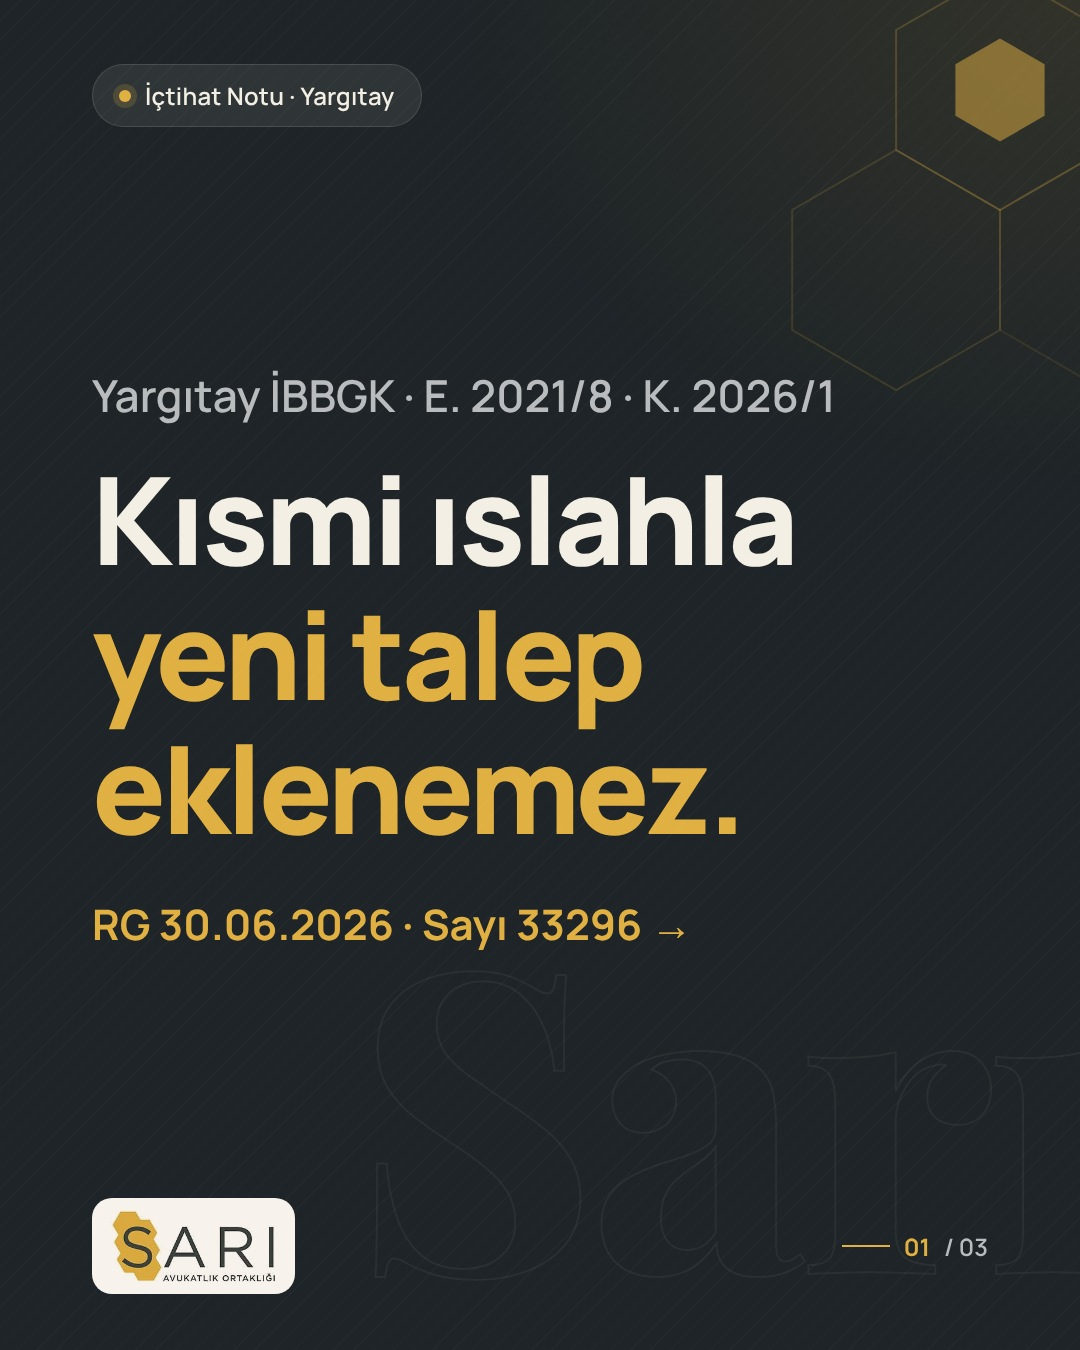
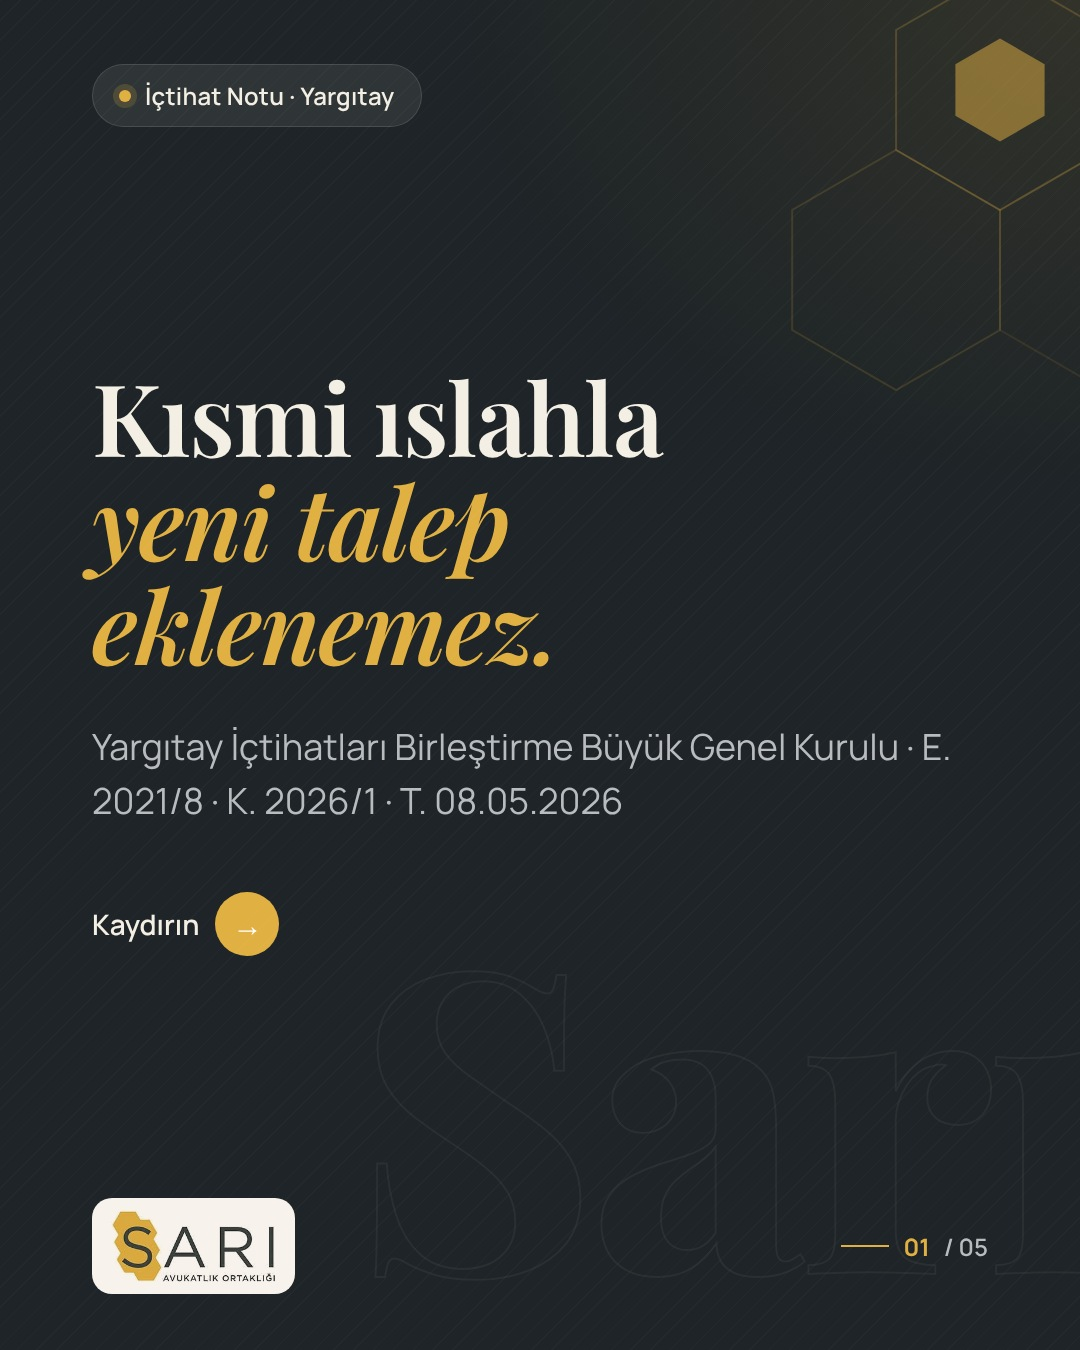
Keep detailed style for İçtihat Notu (professional audience); restore 19 Nov version
Claude-Session: https://claude.ai/code/session_0164oKcT3mMCAzEmKnB2D6t4

diff --git a/saripartners/ONAY.md b/saripartners/ONAY.md
@@ -145,26 +145,30 @@ Bu paylaşım genel bilgilendirme amaçlıdır; hukuki görüş veya tavsiye nit
 **Açıklama metni:**
 
 ```
-İçtihat Notu | Kısmi ıslahla yeni talep eklenemez.
+İçtihat Notu | Kısmi ıslahla, dava dilekçesinde yer almayan yeni bir talep eklenemez.
 
-Yargıtay İçtihatları Birleştirme Büyük Genel Kurulu, E. 2021/8, K. 2026/1, T. 08.05.2026 (RG 30.06.2026, S. 33296).
+Yargıtay İçtihatları Birleştirme Büyük Genel Kurulu kararı.
 
-▪ Kısmi ıslah mevcut talebi düzeltir; dava dilekçesinde olmayan bağımsız talep bu yolla eklenemez.
-▪ Talepler dilekçede eksiksiz sayılmalı; unutulan talep için ayrı dava ve zamanaşımı kontrolü gerekir.
+Künye: E. 2021/8, K. 2026/1, T. 08.05.2026 (RG 30.06.2026, S. 33296)
+
+Yüksek Mahkeme, daireler arasındaki görüş ayrılığını oy çokluğuyla gidermiştir. Gerekçede, kısmi ıslahın mevcut talep üzerinde düzeltme imkânı tanıdığı; dilekçede hiç bulunmayan bir istemin bu yolla eklenmesinin ıslahı fiilen ikinci bir dava açma aracına dönüştüreceği vurgulanmaktadır.
+
+Uygulama açısından:
+▪ Talepler dava dilekçesinde eksiksiz belirtilmelidir.
+▪ Dilekçede yer almayan bağımsız talepler için ayrı dava ve zamanaşımı denetimi gerekir.
+▪ 7589 s. Kanun ile belirsiz alacak davasının kaldırılmasıyla birlikte talebin baştan doğru kurgulanması daha da önem kazanmıştır.
 
 Bu paylaşım genel bilgilendirme amaçlıdır; hukuki görüş veya tavsiye niteliği taşımaz.
 
-#Yargıtay #içtihadıbirleştirme #ıslah #HMK
+#Yargıtay #içtihadıbirleştirme #ıslah #HMK #medeniusulhukuku
 ```
-
-**Not:** 15.11.2026 revizyonu: kısa ve vurucu dil, 3–4 slayt.
 
 **Kontrol edilecekler:**
 
 - [ ] Gerekçe özeti ikincil kaynaklara dayanıyor; karar metniyle karşılaştırılmalı.
 - [ ] Bağlayıcılık için 2797 s. Kanun m.45 atfının fıkrası teyit edilmeli.
 
-**Durum:** ⏳ Onay bekliyor
+**Durum:** ✅ Onaylandı
 
 ---
 

diff --git a/saripartners/rehber/icerik-plani.md b/saripartners/rehber/icerik-plani.md
@@ -158,3 +158,5 @@ Tasarım (petek motifi, filigran, doku, renkler) aynen korunur. Değişen şey *
 - **Asıl çarpıcı bilgi en büyük ve en kalın öğedir.** Örnek: "Trafik sigortası **ÖDEMEZ.**" (`vurgu` slayt tipi).
 - **En fazla 3–4 slayt:** kanca (vurgu), cevap (`cevap` tipi), ne yapmalı (`adimlar` tipi). Kaynak ve yasal not son slaytta küçük yazıyla.
 - **Açıklama metni de kısa:** 3–5 satır özet, tek etkileşim çağrısı.
+
+**İstisna: İçtihat Notu (hukukçulara yönelik).** Bu seride ayrıntılı ve teknik anlatım korunur: künye, hüküm, gerekçenin özü, uygulamaya etkisi ve bağlayıcılık ayrı slaytlarda anlatılır (5–6 slayt, ayrıntılı açıklama metni). Kısaltma, genç avukat ve stajyerlerin kararı yanlış anlamasına yol açabilir. Kısa ve vurucu dil yalnızca geniş kitleye yönelik gönderilerde uygulanır.
